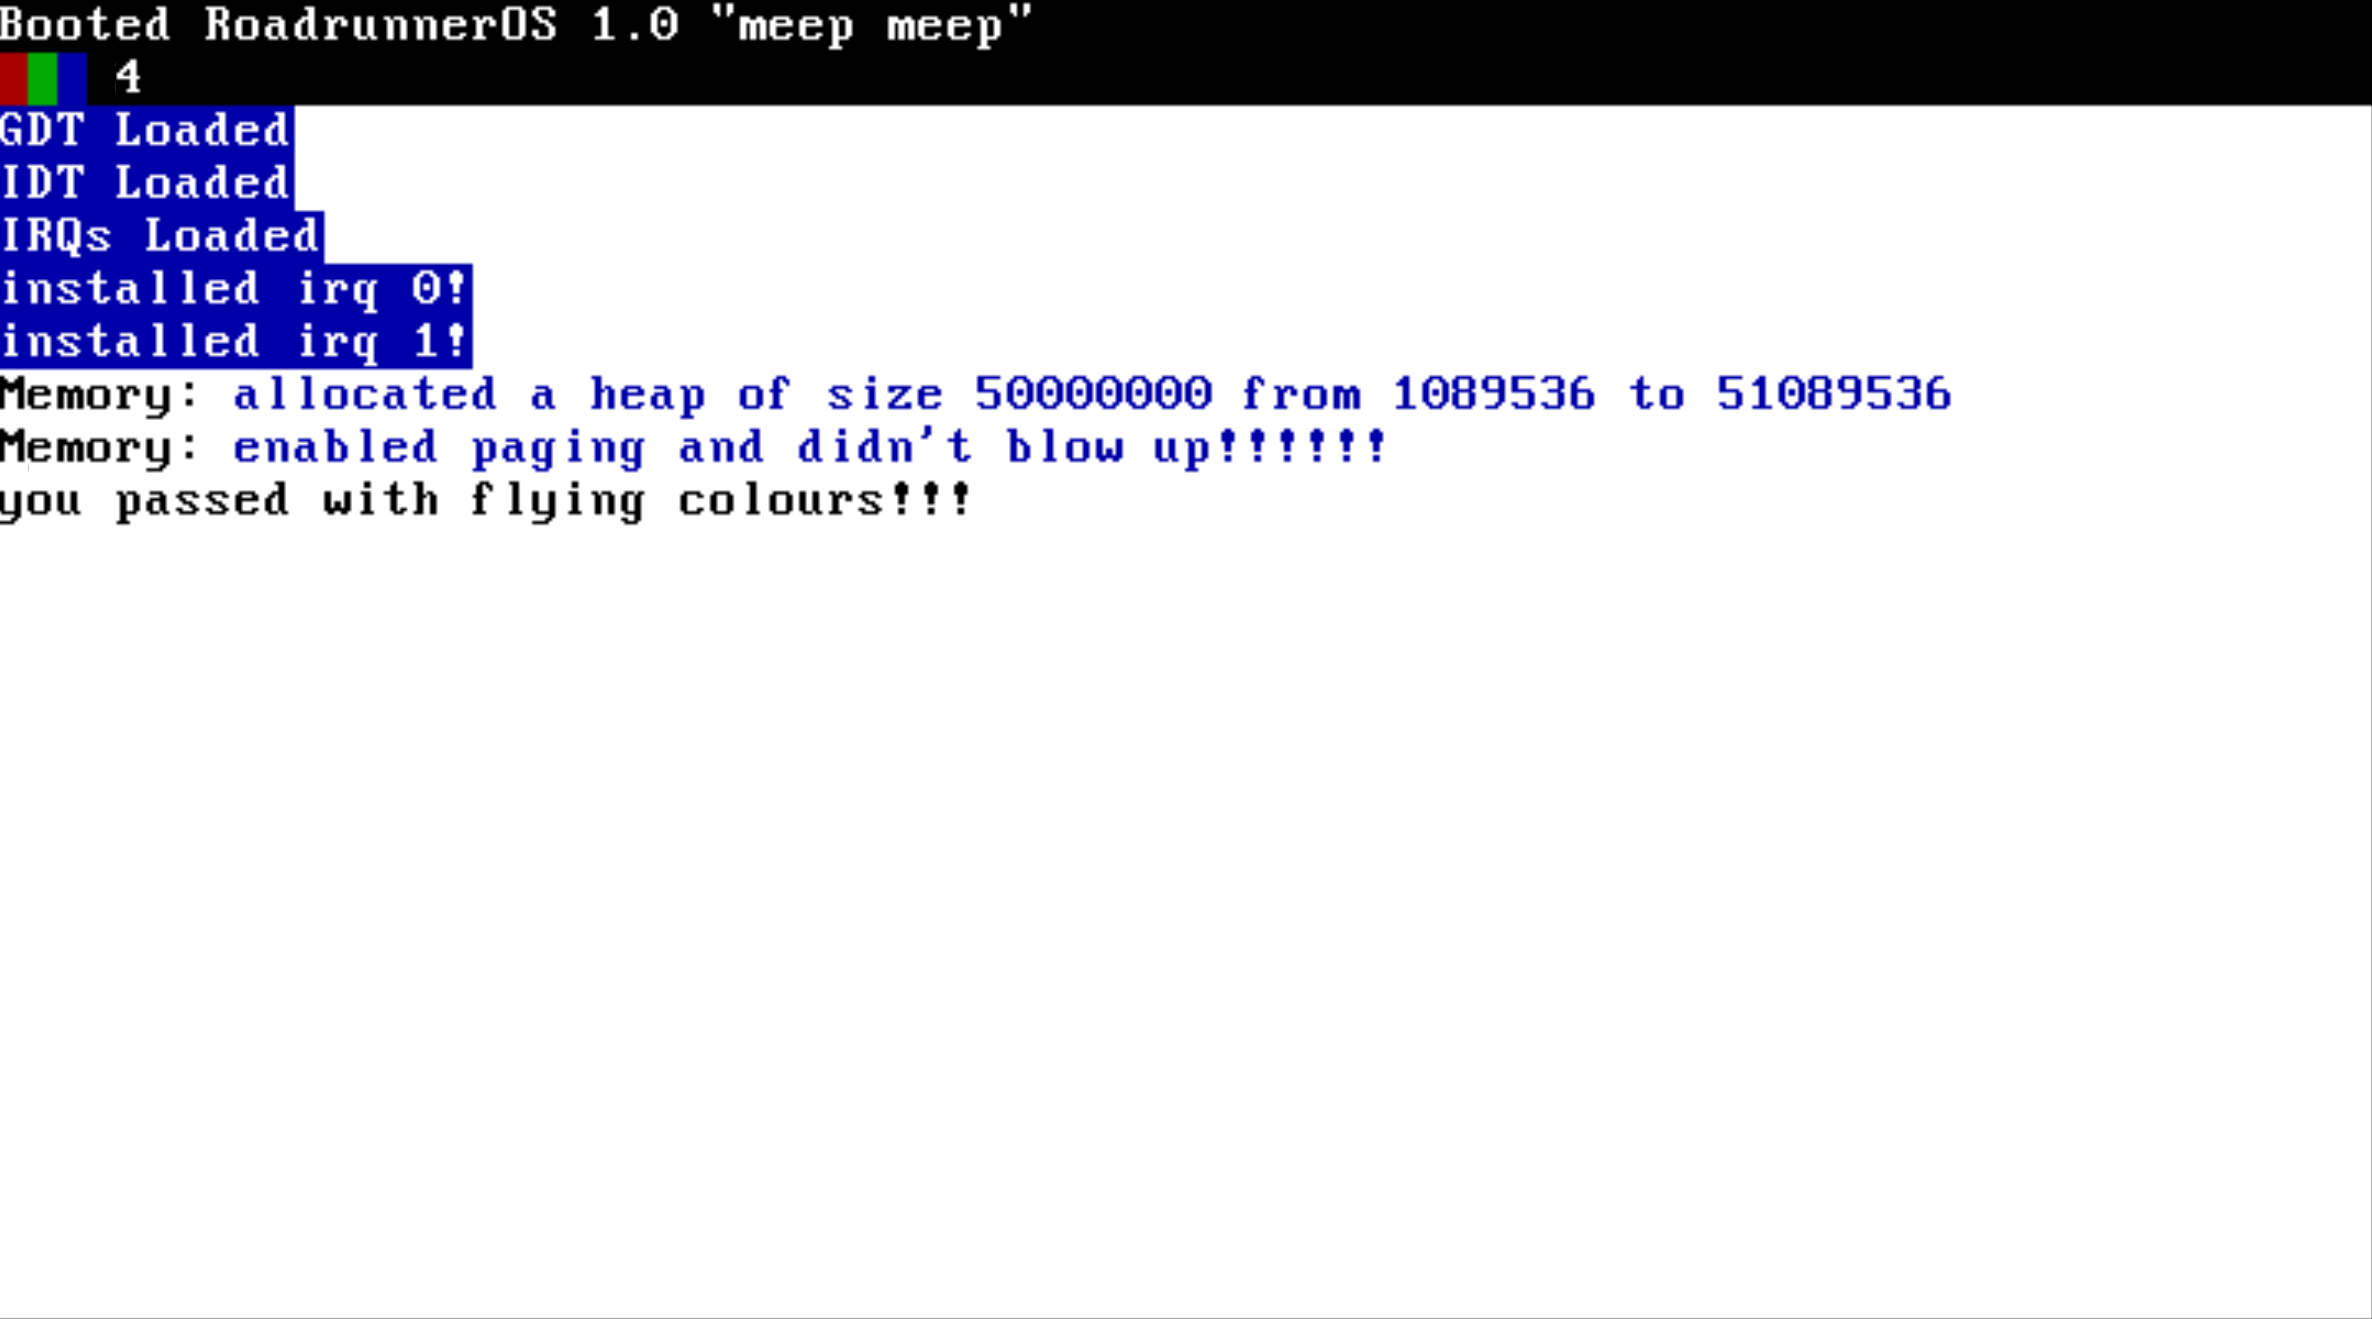
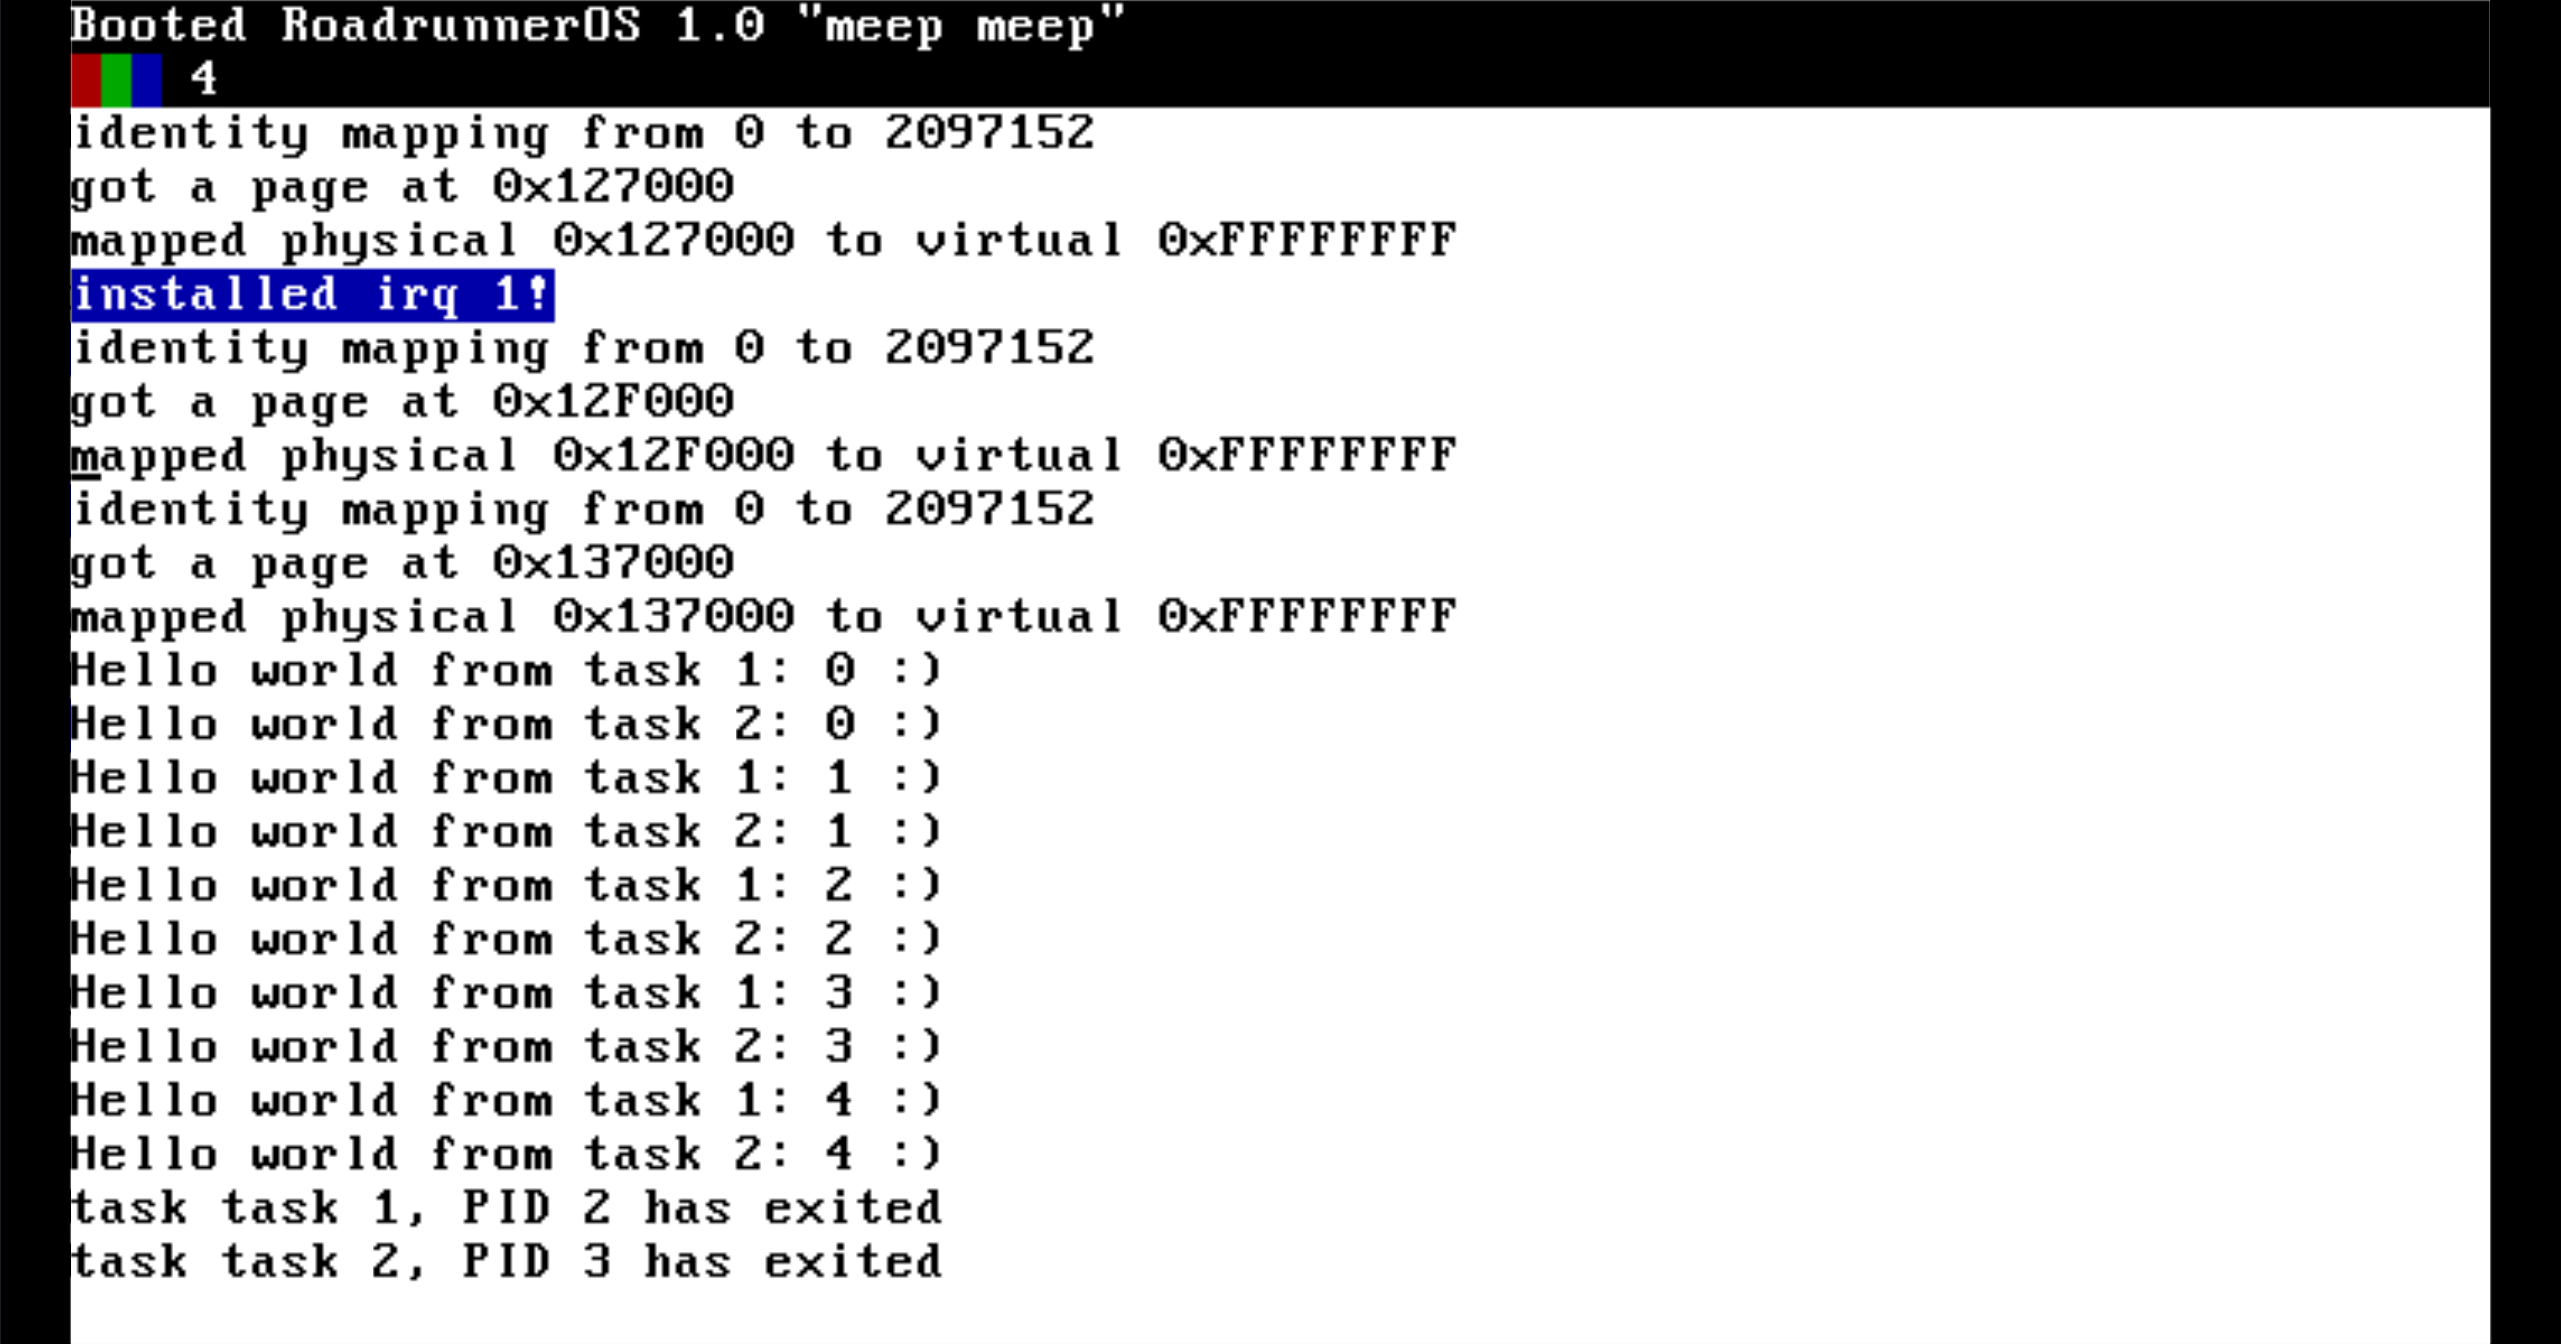
change screenshot

Changed region(s): [[0.0, 0.0, 1.0, 1.0]]

diff --git a/kernel.c b/kernel.c
@@ -14,12 +14,26 @@
 extern void* _kernel_start;
 extern void* _kernel_end;
 
-void my_epic_new_process()
+void my_epic_new_process_one()
 {
-	kprintf("Hello world :)\n");
+	for(int i = 0; i < 5; i++)
+		{
+			kprintf("Hello world from task 1: %d :)\n", i);
+			spin_wait(500);
+		}
 	return;
 }
 
+void my_epic_new_process_two()
+{
+	for(int i = 0; i < 5; i++)
+		{
+			kprintf("Hello world from task 2: %d :)\n", i);
+			spin_wait(500);
+
+		}
+	return;
+}
 
 void kernel_main(void) 
 {
@@ -56,6 +70,8 @@ void kernel_main(void)
 	kenable_interrupts(); /* this is what starts the preemption thingy and ultimately gives us processes*/
 	// parse_multiboot_header();
 
-	create_process("hello world factory", &my_epic_new_process);
+	create_process("task 1", &my_epic_new_process_one);
+	create_process("task 2", &my_epic_new_process_two);
+
 	for(;;);
 }
